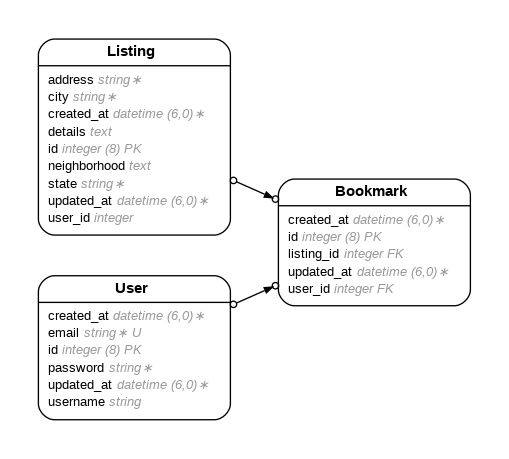
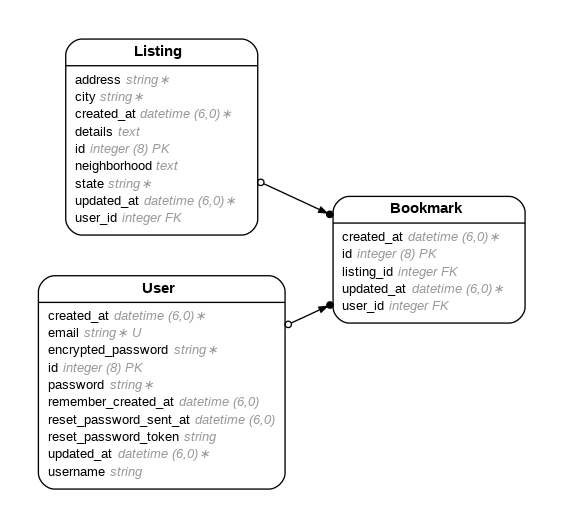
added necessary devise columns to users

Changed region(s): [[0.0589, 0.061, 0.943, 0.9455]]

diff --git a/db/schema.rb b/db/schema.rb
@@ -10,7 +10,7 @@
 #
 # It's strongly recommended that you check this file into your version control system.
 
-ActiveRecord::Schema[8.0].define(version: 2026_02_03_065223) do
+ActiveRecord::Schema[8.0].define(version: 2026_02_03_215725) do
   # These are extensions that must be enabled in order to support this database
   enable_extension "pg_catalog.plpgsql"
 
@@ -180,6 +180,12 @@ ActiveRecord::Schema[8.0].define(version: 2026_02_03_065223) do
     t.string "password"
     t.datetime "created_at", null: false
     t.datetime "updated_at", null: false
+    t.string "encrypted_password", default: "", null: false
+    t.string "reset_password_token"
+    t.datetime "reset_password_sent_at"
+    t.datetime "remember_created_at"
+    t.index ["email"], name: "index_users_on_email", unique: true
+    t.index ["reset_password_token"], name: "index_users_on_reset_password_token", unique: true
   end
 
   add_foreign_key "solid_queue_blocked_executions", "solid_queue_jobs", column: "job_id", on_delete: :cascade

diff --git a/app/models/user.rb b/app/models/user.rb
@@ -2,12 +2,21 @@
 #
 # Table name: users
 #
-#  id         :bigint           not null, primary key
-#  email      :string
-#  password   :string
-#  username   :string
-#  created_at :datetime         not null
-#  updated_at :datetime         not null
+#  id                     :bigint           not null, primary key
+#  email                  :string
+#  encrypted_password     :string           default(""), not null
+#  password               :string
+#  remember_created_at    :datetime
+#  reset_password_sent_at :datetime
+#  reset_password_token   :string
+#  username               :string
+#  created_at             :datetime         not null
+#  updated_at             :datetime         not null
+#
+# Indexes
+#
+#  index_users_on_email                 (email) UNIQUE
+#  index_users_on_reset_password_token  (reset_password_token) UNIQUE
 #
 class User < ApplicationRecord
   devise :database_authenticatable, :registerable,

diff --git a/db/migrate/20260203215725_add_devise_to_users.rb b/db/migrate/20260203215725_add_devise_to_users.rb
@@ -1,0 +1,19 @@
+class AddDeviseToUsers < ActiveRecord::Migration[8.0]
+  def change
+    change_table :users do |t|
+      ## Database authenticatable
+      t.string :email,              null: false, default: "" unless column_exists?(:users, :email)
+      t.string :encrypted_password, null: false, default: ""
+
+      ## Recoverable
+      t.string   :reset_password_token
+      t.datetime :reset_password_sent_at
+
+      ## Rememberable
+      t.datetime :remember_created_at
+    end
+
+    add_index :users, :email,                unique: true unless index_exists?(:users, :email)
+    add_index :users, :reset_password_token, unique: true unless index_exists?(:users, :reset_password_token)
+  end
+end
